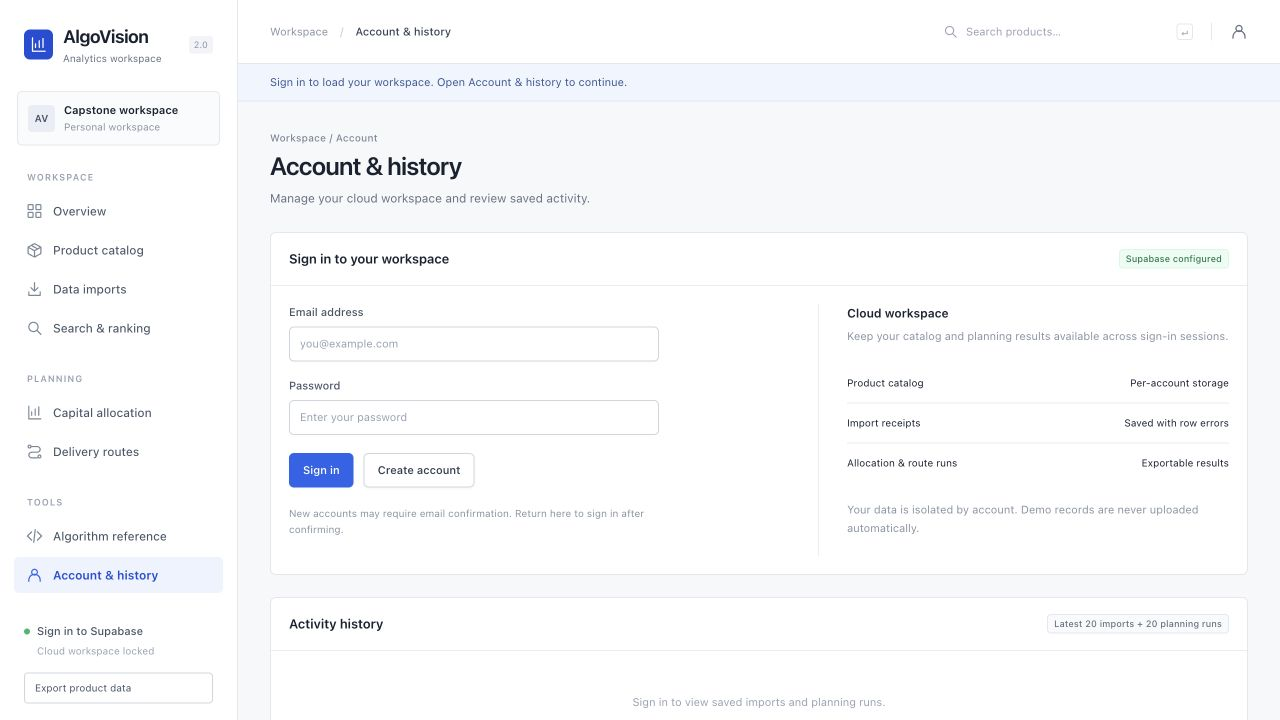
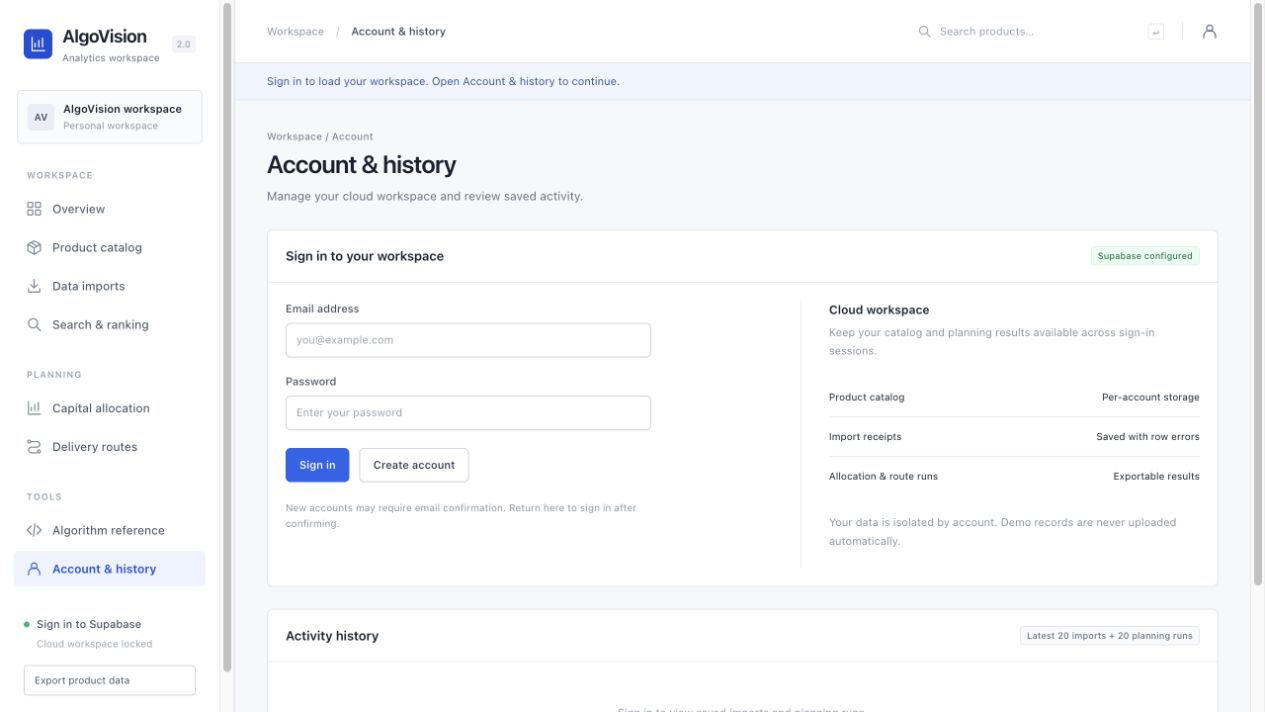
Remove organization-specific documentation and present standalone project

diff --git a/index.html b/index.html
@@ -17,7 +17,7 @@
 <a class="skip-link" href="#main">Skip to content</a>
 <div class="shell">
 <aside class="sidebar"><a class="brand" href="#overview"><span class="brand-mark"><svg class="icon"><use href="#i-chart"/></svg></span><span>AlgoVision<small>Analytics workspace</small></span><span class="version">2.0</span></a>
-<div class="workspace-switch"><span class="workspace-avatar">AV</span><span>Capstone workspace<small>Personal workspace</small></span></div>
+<div class="workspace-switch"><span class="workspace-avatar">AV</span><span>AlgoVision workspace<small>Personal workspace</small></span></div>
 <div class="nav-label">WORKSPACE</div><nav aria-label="Main navigation">
 <a href="#overview" data-page="overview"><svg class="icon"><use href="#i-grid"/></svg> Overview</a>
 <a href="#catalog" data-page="catalog"><svg class="icon"><use href="#i-box"/></svg> Product catalog</a>
@@ -32,6 +32,6 @@
 </nav>
 <div class="sidebar-bottom"><div class="connection"><span class="status-dot"></span><span id="backend-status">Connecting…</span></div><p id="backend-detail">Checking backend</p><button id="export" class="sidebar-button">Export product data</button><button id="reset" class="sidebar-button muted">Restore sample catalog</button></div></aside>
 <div class="workspace"><header class="topbar"><div class="breadcrumb">Workspace <span>/</span> <strong id="breadcrumb">Overview</strong></div><div class="topbar-right"><form id="quick-search" role="search"><svg class="icon"><use href="#i-search"/></svg><input id="quick-query" type="search" aria-label="Search products" placeholder="Search products…" maxlength="100"><kbd>↵</kbd></form><a href="#account" class="account-shortcut" aria-label="Open account settings"><svg class="icon"><use href="#i-user"/></svg></a></div></header>
-<div id="cloud-banner" class="cloud-banner" role="status" hidden></div><main id="main" tabindex="-1"><div class="loading-state">Loading workspace…</div></main><footer><span>AlgoVision 2.0</span><span>Synthetic planning data · DSA capstone project</span><a href="#insights">Algorithm reference</a></footer></div>
+<div id="cloud-banner" class="cloud-banner" role="status" hidden></div><main id="main" tabindex="-1"><div class="loading-state">Loading workspace…</div></main><footer><span>AlgoVision 2.0</span><span>Synthetic planning data · DSA analytics</span><a href="#insights">Algorithm reference</a></footer></div>
 </div><div id="toast" role="status" aria-live="polite"></div><noscript>This application requires JavaScript and the local Node server.</noscript><script type="module" src="src/app.js"></script>
 </body></html>

diff --git a/docs/PROJECT_REPORT.md b/docs/PROJECT_REPORT.md
@@ -1,12 +1,6 @@
 # AlgoVision 2.0 — Project report
 
-Author: [YOUR FULL NAME]  
-College: [YOUR COLLEGE]  
-Course and branch: [YOUR COURSE / BRANCH]  
-Year: [YOUR YEAR OF STUDY]  
-Internship domain: Data Structures and Algorithms  
-Organization: LaunchED  
-Submission date: [ACTUAL SUBMISSION DATE]
+A standalone data structures and algorithms analytics application.
 
 ## 1. Problem statement
 
@@ -124,7 +118,7 @@ These are implemented features. They are not claims of compliance with enterpris
 
 ## 7. Challenges and technical solutions
 
-These describe implementation challenges, not invented personal internship experiences.
+The implementation addresses the following technical challenges.
 
 | Challenge | Solution | Tradeoff |
 |---|---|---|
@@ -147,13 +141,13 @@ Catalog ingestion/search corresponds to e-commerce inventory analytics. Integer 
 
 Supabase already supplies persistent per-user data, transactional import/reset operations, composite ID uniqueness and access rules. For larger deployments, add a shared session store, asynchronous batch workers, incremental balanced indexing, production observability and operational demand/traffic validation. Million-record analytics and public multi-instance deployment are outside the current scope. See COMPLEXITY.md for detailed limitations.
 
-## 10. Reflection prompts for the student
+## 10. Design considerations
 
-Before recording, explain in your own words why a hash index costs extra space, why a balanced BST helps range search, why top-K uses a heap, why greedy is not always optimal, how DP traceback works, and why negative route weights invalidate Dijkstra. Add your real internship experience, problems you personally encountered, and what you learned. Do not present the template's prompts as events that happened to you.
+The hash index trades memory for faster exact lookups. The balanced price BST supports ordered range queries, while a bounded heap limits the memory needed for top-K retrieval. Greedy allocation provides a fast heuristic; dynamic programming produces the exact 0/1 optimum. Dijkstra uses nonnegative edge weights and parent pointers to reconstruct the route. These decisions are directly inspectable in the source and test suite.
 
-## 11. Requirement traceability
+## 11. Feature coverage
 
-| Project brief requirement | Implementation / evidence |
+| Capability | Implementation / evidence |
 |---|---|
 | Unified analytics across logistics, e-commerce, fintech | One dashboard with catalog, routing and capital planning |
 | Data ingestion: queues, hashing | Queue and Catalog.ingest; ingestion view; validation tests |
@@ -164,14 +158,10 @@ Before recording, explain in your own words why a hash index costs extra space, 
 | Modular source and documentation | src modules, README, docs folder |
 | Algorithmic complexity and optimization report | COMPLEXITY.md; algorithm lab |
 | Functional prototype or visualization dashboard | Runnable app with eight views, Node API and Supabase backend |
-| Concept coverage: 25% | Required algorithms, explanations and traceability |
-| Code quality: 25% | Modular pure core, bounds, deterministic outputs, tests |
-| Practical relevance: 25% | Coherent commerce scenario and explicit scaling tradeoffs |
-| Presentation and reflection: 25% | DEMO_SCRIPT.md and honest reflection prompts |
 
-## 12. Source requirements
+## 12. Implementation choices
 
-This project follows the user-provided DSA Capstone Project 1.pdf (one-page AlgoVision 2.0 project brief) and Capstone_Project_Submission_Guidelines_Sep_2026.pdf (submission workflow). No additional mandatory language, framework, page count, or dataset is specified in those files. JavaScript, Supabase persistence, and the chosen scenarios are implementation choices. The prototype addresses all three stated industry areas to avoid narrowing the brief to one sector.
+JavaScript ES modules allow the browser, Node API and tests to share one algorithm layer. Supabase provides authentication and database persistence. The product catalog, budget allocation and delivery network demonstrate applications across commerce and logistics using synthetic inputs.
 
 ## 13. Backend delivery and verification
 

diff --git a/docs/DEMO_SCRIPT.md b/docs/DEMO_SCRIPT.md
@@ -1,21 +1,19 @@
 # Project demonstration script — target 8 minutes
 
-Record an MP4 lasting 5–10 minutes. The introduction MUST be in English. The technical walkthrough may be English or Hindi; the script below uses English. Replace every bracketed placeholder with your true details. Do not invent internship experiences or claim you wrote components you do not understand.
+An optional eight-minute walkthrough of the application. Adapt the language, duration and presentation format to your audience.
 
 ## Before recording
 
-- Fill personal details in PROJECT_REPORT.md and this introduction.
+- Review the project report and choose the features you want to demonstrate.
 - Start the app with npm start and open http://127.0.0.1:4173.
 - Sign in from Account & history, load the sample catalog, then keep sample-import-errors.json and sample-opportunities.json handy.
 - Run npm test and keep the passing test output available.
 - Use a quiet place, clear microphone, professional tone, readable screen zoom and clean visuals. If using a webcam, check framing and lighting. Use stable internet if screen sharing.
 - Rehearse once. Aim for 8 minutes; cut repetition rather than rushing.
 
-## 0:00–0:50 — Introduction, English only
+## 0:00–0:50 — Introduction
 
-“Hello, my name is [FULL NAME]. I am studying [COURSE AND BRANCH] at [COLLEGE NAME], and I am currently in [YEAR] of my course. My internship domain with LaunchED is Data Structures and Algorithms. During the internship, [ONE OR TWO TRUTHFUL SENTENCES ABOUT YOUR EXPERIENCE].
-
-My capstone project is AlgoVision 2.0, a unified analytics prototype that applies data structures and algorithms to product catalogs, capital allocation and delivery routing. I will demonstrate the working project, explain the algorithms and discuss their tradeoffs.”
+“AlgoVision 2.0 is a standalone analytics application that applies data structures and algorithms to product catalogs, capital allocation and delivery routing. This demonstration covers the working application, its algorithms and their tradeoffs.”
 
 ## 0:50–1:30 — Problem, tools, architecture
 
@@ -83,12 +81,12 @@ Briefly show Account & history saved activity to demonstrate persisted imports a
 
 [ADD A REAL CHALLENGE YOU PERSONALLY FACED AND HOW YOU RESOLVED IT.]
 
-The result is a working prototype with all five required modules, modular source code, a complexity report, a visible graph dashboard, and tests. Current limits include in-memory Node sessions, a fixed sample route network, synchronous calculations and synthetic planning inputs. Supabase provides persistent per-user data; refresh loads other-device changes.
+The result is a working prototype with all five core modules, modular source code, a complexity report, a visible graph dashboard, and tests. Current limits include in-memory Node sessions, a fixed sample route network, synchronous calculations and synthetic planning inputs. Supabase provides persistent per-user data; refresh loads other-device changes.
 
-[ADD WHAT YOU PERSONALLY LEARNED, HOW YOU VALIDATED IT, AND A TRUTHFUL SENTENCE ABOUT YOUR INTERNSHIP EXPERIENCE.]
+[OPTIONAL: EXPLAIN YOUR TECHNICAL LEARNINGS AND NEXT IMPROVEMENTS.]
 
 Thank you for watching my AlgoVision 2.0 demonstration.”
 
 ## After recording
 
-Verify the MP4 opens, voice is clear, introduction is English, and duration is 5–10 minutes. Upload the MP4 separately to Drive with view access. Upload the same final demonstration video to LinkedIn with a detailed description and tags for LaunchED and your HOD. Follow SUBMISSION_CHECKLIST.md for all remaining steps.
+Check the recording's readability and audio. If sharing the project, include the repository link and setup instructions. Keep actual environment configuration and account credentials private.

diff --git a/README.md b/README.md
@@ -1,6 +1,6 @@
 # AlgoVision 2.0 — Analytics workspace
 
-A modular DSA capstone covering e-commerce catalog analytics, capital allocation and logistics routing. Version 1.1 added a Node application API and Supabase Auth/Postgres integration. Sample data is synthetic; algorithms are explicitly implemented in JavaScript.
+A modular DSA analytics platform covering e-commerce catalog analytics, capital allocation and logistics routing. Version 1.1 added a Node application API and Supabase Auth/Postgres integration. Sample data is synthetic; algorithms are explicitly implemented in JavaScript.
 
 Runs with Node.js 20+ and no npm dependencies. Start in local demo mode, or configure your own Supabase project for authentication and persistent data. Credentials are not included; use `.env.example` and [the backend setup guide](docs/SUPABASE_SETUP.md).
 
@@ -77,7 +77,6 @@ docs/PROJECT_REPORT.md       Project objectives, modules, architecture, outcomes
 docs/COMPLEXITY.md           Algorithmic complexity and efficiency analysis
 docs/SUPABASE_SETUP.md       Backend setup, API and operational boundaries
 docs/DEMO_SCRIPT.md          Timed 5–10 minute presentation script
-docs/SUBMISSION_CHECKLIST.md PDF requirements and remaining personal steps
 docs/TEST_REPORT.md          Verification and explicit live-cloud test limits
 ```
 
@@ -85,13 +84,11 @@ docs/TEST_REPORT.md          Verification and explicit live-cloud test limits
 
 19 Node tests pass, including independent algorithm references and mocked Supabase API contracts. The live schema is applied, all 21 pgTAP access-policy checks passed, and 22 live HTTP checks verified login, import/reset/delete, computed results, history and persistence across independent login sessions. An actual second physical device was not used. A runnable policy suite is included.
 
-This is a loopback capstone application, not a public production deployment. It has no payment processing, live traffic feed, realtime subscriptions, OAuth or password recovery interface. Sessions are in server memory. Deployment requires HTTPS, a shared session store as appropriate, and explicit permitted origins. Core algorithm complexity excludes network/Auth/database overhead.
+This is a loopback analytics application, not a public production deployment. It has no payment processing, live traffic feed, realtime subscriptions, OAuth or password recovery interface. Sessions are in server memory. Deployment requires HTTPS, a shared session store as appropriate, and explicit permitted origins. Core algorithm complexity excludes network/Auth/database overhead.
 
-## Submission
+## Project documentation
 
-Fill in your personal details in the report and script, understand the algorithms, then record a 5–10 minute MP4. The introduction must be English; the walkthrough may be English or Hindi. Use docs/SUBMISSION_CHECKLIST.md for Drive sharing, LinkedIn video/tags, Google review screenshot and the email-provided final form. Those external steps are not performed by this package. The supplied deadline is 31 October 2026 with no stated time/timezone.
-
-Prepared against DSA Capstone Project 1.pdf and Capstone_Project_Submission_Guidelines_Sep_2026.pdf. All sample values are invented. Review, customize and disclose AI assistance if your institution requires it. No company endorsement or certification is claimed.
+The [project report](docs/PROJECT_REPORT.md) explains the architecture and design decisions. The [complexity report](docs/COMPLEXITY.md) documents algorithmic tradeoffs, and the [demo script](docs/DEMO_SCRIPT.md) provides an optional walkthrough. All sample values are synthetic.
 
 ## Interface revision (v1.2)
 

diff --git a/docs/SUPABASE_SETUP.md b/docs/SUPABASE_SETUP.md
@@ -71,14 +71,14 @@ Cloud calculation pages run their default example on opening and save it as a ru
 
 ## Operational boundaries
 
-- The Node listener is loopback-only and designed for a capstone demonstration. It is not deployed to the internet.
+- The Node listener is loopback-only and designed for local demonstrations. It is not deployed to the internet.
 - Sessions are held in memory for at most 12 hours. Restarting Node signs users out, but database records remain. A production multi-instance service needs a shared session store.
 - Cookies are HttpOnly/SameSite=Strict; Secure can be enabled for HTTPS. The current strict origin allowlist intentionally permits only the specified localhost port. A public deployment requires deliberate origin/host/proxy and HTTPS configuration.
 - Local auth requests have a bounded per-IP attempt window. Supabase's own rate limits and email policies also apply. Production abuse controls and password recovery are not implemented here.
 - Product retrieval is paginated in 500-row pages. It is not a transactionally consistent snapshot across simultaneous writes from other devices. Refresh to see other-device updates; no realtime subscription is claimed.
-- Price BST and heap queries run over the loaded catalog in the browser. Import validation, allocation and routing execute in Node in cloud mode. This preserves the capstone DSA demonstrations while adding durable persistence.
+- Price BST and heap queries run over the loaded catalog in the browser. Import validation, allocation and routing execute in Node in cloud mode. This preserves the DSA demonstrations while adding durable persistence.
 - Network latency, Auth verification and DB operations add cost beyond the core algorithm complexities. Database capacity checks and indexes are separate from the in-memory complexity report.
-- `.env` and backend source are blocked by the HTTP static-file allowlist. `.env` must be excluded from version control and shared submission archives. The packaging procedure excludes it explicitly.
+- `.env` and backend source are blocked by the HTTP static-file allowlist. `.env` must be excluded from version control and shared source archives. The packaging procedure excludes it explicitly.
 - Email/password sign-in accepts existing 8–128 character passwords. OAuth, MFA, password recovery UI, team workspaces, live traffic and real money operations are outside scope.
 
 ## Official references consulted

diff --git a/docs/TEST_REPORT.md b/docs/TEST_REPORT.md
@@ -35,7 +35,7 @@ JavaScript syntax checks passed for the algorithm module, application module and
 
 ## Limits of verification
 
-Submission Drive uploads, public sharing permissions, LinkedIn, Google review, recording duration/quality and final form submission have not been performed. Supabase backend provisioning is completed as documented below. JSON download controls are implemented; deterministic example exports are included in the package. Cross-browser file download and file-picker behavior has not been comprehensively tested. Large supported DP limits are analytically bounded; the automated correctness tests focus on independently verifiable instances rather than every maximum-size input.
+Supabase backend provisioning is documented below. JSON download controls are implemented; deterministic example exports are included in the package. Cross-browser file download and file-picker behavior has not been comprehensively tested. Large supported DP limits are analytically bounded; the automated correctness tests focus on independently verifiable instances rather than every maximum-size input.
 
 ## Local environment note
 
@@ -54,7 +54,7 @@ The backend is now live, superseding the original browser-only storage model des
 - Browser sign-in with the disposable synthetic test account loaded its persisted products and saved activity. Default optimizer calculation ran against the live server/Supabase path.
 - The live test account and its dependent records are removed after verification. No test password is packaged or retained in the final deliverable.
 
-A second physical device, public hosting and production load were not tested. Tests cover independent sessions on the same host rather than claiming a multi-device hardware test. The 22 live checks used a disposable synthetic account created solely for this new capstone project; they do not access personal project data.
+A second physical device, public hosting and production load were not tested. Tests cover independent sessions on the same host rather than claiming a multi-device hardware test. The 22 live checks used a disposable synthetic account created solely for this analytics project; they do not access personal project data.
 
 ## Interface revision — v1.2
 
